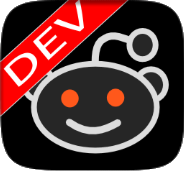
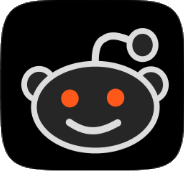
ureadit dev -> ureadit, change text order, change margin

Changed region(s): [[0.0, 0.0, 0.7065, 0.7018], [0.7609, 0.9942, 0.788, 1.0]]

diff --git a/templates/webapp.html b/templates/webapp.html
@@ -13,12 +13,8 @@
     <div class="five-col last-col">
         <h3>{% trans "A first step into your Ubuntu developer adventure" %}</h3>
         <p>{% trans "This form generates simple Webapps packages ready to test on a device and upload to the Ubuntu store." %}</p>
-        <ul class="list-ubuntu">
-            <li><a href="http://askubuntu.com/questions/603068/having-generated-a-webapp-with-the-generator-how-do-i-test-my-click-on-the-devi">{% trans "How to test a click package on your device ›" %}</a></li>
-            <li><a href="https://developer.ubuntu.com/publish/">{% trans "How to publish an app to the store ›" %}</a></li>
-        </ul>
         <h4>E.g. HTML5 games, embedded websites...</h4>
-        <ul class="inline-icons">
+        <ul class="inline-icons" style="margin-bottom:0px;">
             <li><a href="https://appstore.bhdouglass.com/app/com.dailymotion.webapp" title="Dailymotion"><img src="/static/developer_portal/img/apps/dailymotion.png"></a></li>
             <li><a href="https://appstore.bhdouglass.com/app/onefootball.pcapeluto" title="Onefootball"><img src="/static/developer_portal/img/apps/onefootball.png"></a></li>
             <li><a href="https://appstore.bhdouglass.com/app/sandtrap.flexiondotorg" title="Sand Trap"><img src="/static/developer_portal/img/apps/sandtrap.png"></a></li>
@@ -26,21 +22,25 @@
             <li><a href="https://appstore.bhdouglass.com/app/com.ubuntu.developer.mreese.trello" title="Trello"><img src="/static/developer_portal/img/apps/trello.png"></a></li>
             <li><a href="https://appstore.bhdouglass.com/app/imgur.canonicalpartners" title="Imgur"><img src="/static/developer_portal/img/apps/imgur.png"></a></li>
         </ul>
+        <ul class="list-ubuntu">
+            <li><a href="http://askubuntu.com/questions/603068/having-generated-a-webapp-with-the-generator-how-do-i-test-my-click-on-the-devi">{% trans "How to test a click package on your device ›" %}</a></li>
+            <li><a href="https://developer.ubuntu.com/publish/">{% trans "How to publish an app to the store ›" %}</a></li>
+        </ul>
     </div>
-    <div class="five-col last-col">
+    <div class="five-col last-col" style="margin-top:24px;">
         <h3>{% trans "Embrace QML native apps" %}</h3>
         <p>{% trans "For your next project, learn how to create stylish, powerful and content-heavy applications with the Ubuntu SDK." %}</p>
-        <ul class="list-ubuntu">
-            <li><a href="https://developer.ubuntu.com/en/apps/sdk/">{% trans "Get started with the Ubuntu SDK ›" %}</a></li>
-        </ul>
         <h4>E.g. messaging clients, games, content managers...</h4>
-        <ul class="inline-icons">
+        <ul class="inline-icons" style="margin-bottom:0px;">
             <li><a href="https://appstore.bhdouglass.com/app/com.ubuntu.telegram" title="Telegram"><img src="/static/developer_portal/img/apps/telegram.png"></a></li>
             <li><a href="https://wiki.ubuntu.com/Touch/CoreApps/Music" title="Music"><img src="/static/developer_portal/img/apps/music.png"></a></li>
             <li><a href="https://appstore.bhdouglass.com/app/com.ubuntu.developer.mzanetti.machines-vs-machines" title="Machines vs. Machines"><img src="/static/developer_portal/img/apps/machinesvsmachines.png"></a></li>
             <li><a href="https://appstore.bhdouglass.com/app/com.mikeasoft.podbird" title="Podbird"><img src="/static/developer_portal/img/apps/podbird.png"></a></li>
             <li><a href="https://appstore.bhdouglass.com/app/com.ubuntu.developer.turan.mahmudov.musicdownloader" title="Grooveshark Manager"><img src="/static/developer_portal/img/apps/groovesharkmanager.png"></a></li>
-            <li><a href="https://appstore.bhdouglass.com/app/com.ubuntu.developer.mhall119.ureadit-dev" title="uReadIt (Dev)"><img src="/static/developer_portal/img/apps/ureadit.png"></a></li>
+            <li><a href="https://appstore.bhdouglass.com/app/com.ubuntu.developer.mhall119.ureadit" title="uReadIt"><img src="/static/developer_portal/img/apps/ureadit.png"></a></li>
+        </ul>
+        <ul class="list-ubuntu">
+            <li><a href="https://developer.ubuntu.com/en/apps/sdk/">{% trans "Get started with the Ubuntu SDK ›" %}</a></li>
         </ul>
     </div>
 </div>
